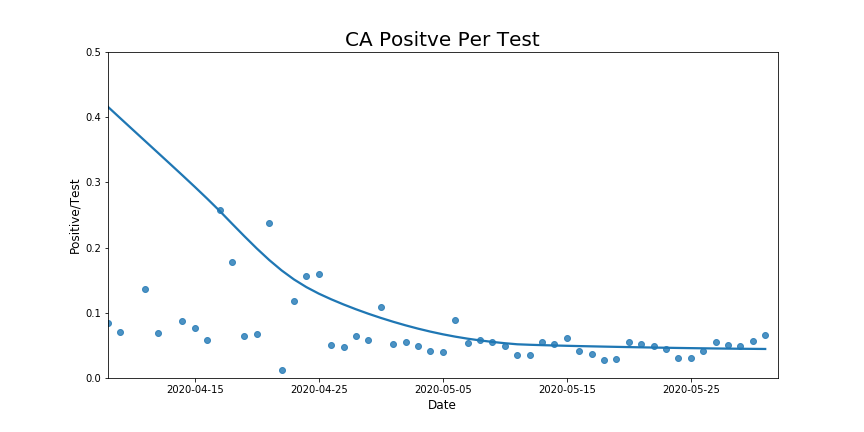
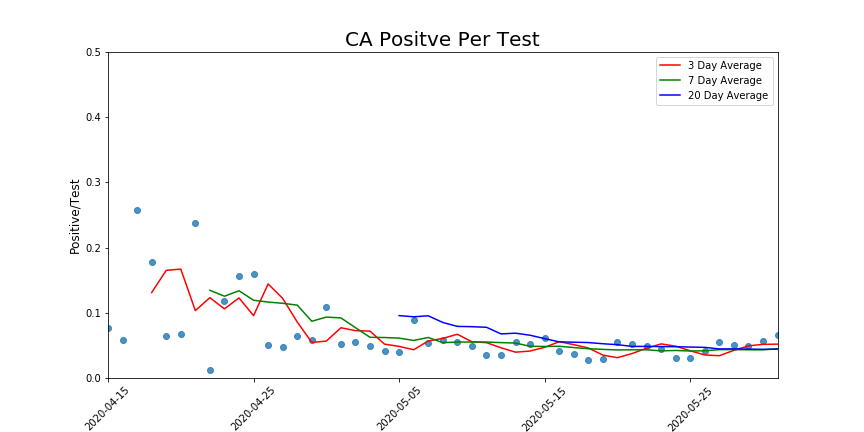
rolling avg instead of lowess

diff --git a/My_COVID_API.py b/My_COVID_API.py
@@ -22,14 +22,12 @@ warnings.filterwarnings('ignore')
 #pd.__version__
 
 
-# ## Import the latest data 
-#  
-# The data is imported from the covidtracking.com website. 
-# 
-# The column Deaths per Positive case (DperP) is added. 
+
 
 # In[2]:
-
+    ### Import the latest data ###
+ 
+# The data is imported from the covidtracking.com website. 
 
 url = 'https://covidtracking.com/api/v1/states/daily.json'
 
@@ -38,27 +36,35 @@ r = requests.get(url)
 json_data = r.json()
 
 df = pd.json_normalize(json_data)
+
+# Add columns Deaths per Positive case (DperP), Positive per Test (PosPerTest),
+# and Total Increase Minus Hosptialized Increase (TotMinusHosptializedIncresase)
+
 df['DperP'] = df['death']/df['positive']
 df['PosPerTest']= df['positiveIncrease']/df['totalTestResultsIncrease']
+df['TotMinusHosptializedIncresase'] = np.abs(df['positiveIncrease'] - df['hospitalizedIncrease'])
+
+
 df['date'] = pd.to_datetime(df['date'], format = '%Y%m%d')
 
-#df.head()
 
 plt.close('all')
-# ## Subset the data for specific states 
-# ### First we look at Utah, where I live
+
 
 # In[3]:
+                 ### Subset the data for specific states ### 
 
+# First we look at Utah
 
-#    
-df['TotMinusHosptializedIncresase'] = np.abs(df['positiveIncrease'] - df['hospitalizedIncrease'])
 UT = df[df['state']=='UT']
+
+# Reove clear outliers, looks like they added too many (389) one day and the 
+# corrected that by adding a (-354) a couple days later.
+
 UT = UT[UT['hospitalizedIncrease']!=389]  
 UT = UT[UT['hospitalizedIncrease']> 0]
 
-
-#print(UT.hospitalizedIncrease.describe())
+# Create date ordinal for simplicity of plot labels
 
 UT['date_ordinal'] = pd.to_datetime(UT['date']).apply(lambda date: date.toordinal())
 
@@ -91,7 +97,7 @@ fig, ax = plt.subplots(figsize = (12,6))
 plt.bar(UT['date_ordinal'], UT['positiveIncrease'], label='Positive Increase',color='grey')
 plt.plot(UT['date_ordinal'], UT.rolling_mean, label='3 Day Average', color='red')
 plt.plot(UT['date_ordinal'], UT.rolling_mean2, label='7 Day Average', color='green')
-plt.plot(UT['date_ordinal'], UT.rolling_mean3, label='20 Day Average', color='c')
+plt.plot(UT['date_ordinal'], UT.rolling_mean3, label='20 Day Average', color='blue')
 plt.legend(loc='upper left')
 new_labels = [date.fromordinal(int(item)) for item in ax.get_xticks()]
 ax.set_xticklabels(labels=new_labels, rotation=90, ha='right',fontdict={'fontsize':12})
@@ -116,7 +122,7 @@ fig, ax = plt.subplots(figsize = (12,6))
 plt.bar(UT['date_ordinal'], UT['deathIncrease'], label='Death Increase',color='grey')
 plt.plot(UT['date_ordinal'], UT.rolling_mean_d, label='3 Day Average', color='red')
 plt.plot(UT['date_ordinal'], UT.rolling_mean_d2, label='7 Day Average', color='green')
-plt.plot(UT['date_ordinal'], UT.rolling_mean_d3, label='20 Day Average', color='c')
+plt.plot(UT['date_ordinal'], UT.rolling_mean_d3, label='20 Day Average', color='blue')
 plt.legend(loc='upper left')
 new_labels = [date.fromordinal(int(item)) for item in ax.get_xticks()]
 ax.set_xticklabels(labels=new_labels, rotation=90, ha='right',fontdict={'fontsize':12})
@@ -125,6 +131,34 @@ plt.xlabel('Date', fontdict={'fontsize':12})
 plt.ylabel('Death Increase', fontdict={'fontsize':12})
 plt.axis('tight')
 plt.savefig('Utah_Death_Rolling_Avg.png')
+plt.show()
+
+#%%
+
+UT_1 = UT[UT['date'] >= '2020-04-05' ]
+
+UT_1['rolling_mean'] = UT_1.loc[:,'PosPerTest'].rolling(3).mean().shift(periods=-3)
+UT_1['rolling_mean2'] = UT_1.loc[:,'PosPerTest'].rolling(7).mean().shift(periods=-7)
+UT_1['rolling_mean3'] = UT_1.loc[:,'PosPerTest'].rolling(20).mean().shift(periods=-20)
+
+fig, ax = plt.subplots(figsize = (12,6)) 
+
+
+fig = sns.regplot(x = 'date_ordinal', y = 'PosPerTest', data = UT, fit_reg=False)
+plt.plot(UT_1['date_ordinal'], UT_1.rolling_mean, label='3 Day Average', color='red')
+plt.plot(UT_1['date_ordinal'], UT_1.rolling_mean2, label='7 Day Average', color='green')
+plt.plot(UT_1['date_ordinal'], UT_1.rolling_mean3, label='20 Day Average', color='blue')
+
+plt.legend(loc='upper right')
+ax.set_xlim(UT_1['date_ordinal'].min() , UT_1['date_ordinal'].max() )
+ax.set_ylim(0,0.5)
+new_labels = [date.fromordinal(int(item)) for item in ax.get_xticks()]
+plt.title('UT Positve Per Test', fontdict={'fontsize':20})
+plt.xlabel('Date', fontdict={'fontsize':12})
+plt.ylabel('Positive/Test', fontdict={'fontsize':12})
+ax.set_xticklabels(new_labels, rotation = 45)
+
+plt.savefig('UT_Positive_Per_Test.png')
 plt.show()
 
 
@@ -168,31 +202,6 @@ plt.show()
 # ## Investigating the percentage of tests that return positive results:
 # ### If this number remains high it shows that we are not testing enough. 
 
-# In[8]:
-
-
-#UT=UT[UT['date']>= '2020-03-29']
-UT['date_ordinal'] = pd.to_datetime(UT['date']).apply(lambda date: date.toordinal())
-
-
-fig, ax = plt.subplots(figsize = (12,6)) 
-
-
-fig = sns.regplot(x = 'date_ordinal', y = 'PosPerTest', 
-                  data = UT,lowess=True)
-ax.set_xlim(UT['date_ordinal'].min() +10, UT['date_ordinal'].max() + 1)
-ax.set_ylim(0,0.35)
-new_labels = [date.fromordinal(int(item)) for item in ax.get_xticks()]
-plt.title('UT Positve Per Test', fontdict={'fontsize':20})
-plt.xlabel('Date', fontdict={'fontsize':12})
-plt.ylabel('Positive/Test', fontdict={'fontsize':12})
-ax.set_xticklabels(new_labels)
-
-plt.savefig('Utah_Positive_Per_Test.png')
-plt.show()
-
-
-# ## Compare stats with Nearest States and States with Similar Case Counts: 
 
 # In[9]:
 
@@ -230,7 +239,7 @@ plt.title('Nearest States: Death Total', fontdict={'fontsize':20})
 plt.xlabel('Date', fontdict={'fontsize':12})
 plt.ylabel('Tot. Deaths', fontdict={'fontsize':12})
 
-#plt.savefig('4C Daily Death Total.png')
+
 plt.show()
 
 
@@ -246,14 +255,14 @@ plt.title('Nearest States: Deaths per Case', fontdict={'fontsize':20})
 plt.xlabel('Date', fontdict={'fontsize':12})
 plt.ylabel('Death per Case', fontdict={'fontsize':12})
 
-#plt.savefig('4C + ID & NV Deaths per Case.png')
+
 plt.show()
 
 
 
 
 CA = df[df['state']=='CA']
-#CA.head()
+CA.to_excel('CA.xlsx')
 
 
 
@@ -267,9 +276,11 @@ fig, ax = plt.subplots(figsize = (12,6))
 plt.bar(CA['date_ordinal'], CA['positiveIncrease'], label='Positive Increase',color='grey')
 plt.plot(CA['date_ordinal'], CA.rolling_mean, label='3 Day Average', color='red')
 plt.plot(CA['date_ordinal'], CA.rolling_mean2, label='7 Day Average', color='green')
-plt.plot(CA['date_ordinal'], CA.rolling_mean3, label='20 Day Average', color='cyan')
+plt.plot(CA['date_ordinal'], CA.rolling_mean3, label='20 Day Average', color='blue')
 plt.legend(loc='upper left')
+
 new_labels = [date.fromordinal(int(item)) for item in ax.get_xticks()]
+ax.set_xlim(CA['date_ordinal'].min() , CA['date_ordinal'].max() )
 ax.set_xticklabels(labels=new_labels, rotation=90, ha='right',fontdict={'fontsize':12})
 plt.title('California Positive Increase Rolling Average', fontdict={'fontsize':20})
 plt.xlabel('Date', fontdict={'fontsize':12})
@@ -277,7 +288,7 @@ plt.ylabel('Positive Increase', fontdict={'fontsize':12})
 plt.axis('tight')
 plt.savefig('CA_Increase_Rolling_Avg.png')
 plt.show()
-
+ 
 
 
 CA['rolling_mean_d'] = CA.loc[:,'deathIncrease'].rolling(3).mean().shift(periods=-2)
@@ -287,13 +298,15 @@ CA['rolling_mean_d3'] = CA.loc[:,'deathIncrease'].rolling(20).mean().shift(perio
 CA['date_ordinal'] = pd.to_datetime(CA['date']).apply(lambda date: date.toordinal())
 
 fig, ax = plt.subplots(figsize = (12,6))
+
 plt.bar(CA['date_ordinal'], CA['deathIncrease'], label='Death Increase',color='grey')
 plt.plot(CA['date_ordinal'], CA.rolling_mean_d, label='3 Day Average', color='red')
 plt.plot(CA['date_ordinal'], CA.rolling_mean_d2, label='7 Day Average', color='green')
-plt.plot(CA['date_ordinal'], CA.rolling_mean_d3, label='20 Day Average', color='cyan')
+plt.plot(CA['date_ordinal'], CA.rolling_mean_d3, label='20 Day Average', color='blue')
 plt.legend(loc='upper left')
 new_labels = [date.fromordinal(int(item)) for item in ax.get_xticks()]
-ax.set_xticklabels(labels=new_labels, rotation=90, ha='right',fontdict={'fontsize':12})
+ax.set_xlim(CA['date_ordinal'].min() , CA['date_ordinal'].max() )
+ax.set_xticklabels(labels=new_labels, rotation=45, ha='right',fontdict={'fontsize':12})
 plt.title('California Death Increase Rolling Average', fontdict={'fontsize':20})
 plt.xlabel('Date', fontdict={'fontsize':12})
 plt.ylabel('Death Increase', fontdict={'fontsize':12})
@@ -303,27 +316,36 @@ plt.savefig('CA_Death_Rolling_Avg.png')
 plt.show()
 
 
+#%%
 
-CA_1=CA[CA['date']>= '2020-03-29']
-CA_1['date_ordinal'] = pd.to_datetime(CA_1['date']).apply(lambda date: date.toordinal())
+CA_1 = CA[CA['date'] >= '2020-04-15' ]
+#CA_1 = CA
 
+
+CA_1['rolling_mean'] = CA_1.loc[:,'PosPerTest'].rolling(3).mean().shift(periods=-3)
+CA_1['rolling_mean2'] = CA_1.loc[:,'PosPerTest'].rolling(7).mean().shift(periods=-7)
+CA_1['rolling_mean3'] = CA_1.loc[:,'PosPerTest'].rolling(20).mean().shift(periods=-20)
 
 fig, ax = plt.subplots(figsize = (12,6)) 
 
 
-fig = sns.regplot(x = 'date_ordinal', y = 'PosPerTest', data = CA_1, lowess=True)
-ax.set_xlim(CA_1['date_ordinal'].min() +10, CA_1['date_ordinal'].max() + 1)
+fig = sns.regplot(x = 'date_ordinal', y = 'PosPerTest', data = CA, fit_reg=False)
+
+plt.plot(CA_1['date_ordinal'], CA_1.rolling_mean, label='3 Day Average', color='red')
+plt.plot(CA_1['date_ordinal'], CA_1.rolling_mean2, label='7 Day Average', color='green')
+plt.plot(CA_1['date_ordinal'], CA_1.rolling_mean3, label='20 Day Average', color='blue')
+
+plt.legend(loc='upper right')
+ax.set_xlim(CA_1['date_ordinal'].min() , CA_1['date_ordinal'].max() )
 ax.set_ylim(0,0.5)
 new_labels = [date.fromordinal(int(item)) for item in ax.get_xticks()]
 plt.title('CA Positve Per Test', fontdict={'fontsize':20})
 plt.xlabel('Date', fontdict={'fontsize':12})
 plt.ylabel('Positive/Test', fontdict={'fontsize':12})
-ax.set_xticklabels(new_labels)
+ax.set_xticklabels(new_labels, rotation = 45)
 
 plt.savefig('CA_Positive_Per_Test.png')
 plt.show()
-
-
 
 
 
